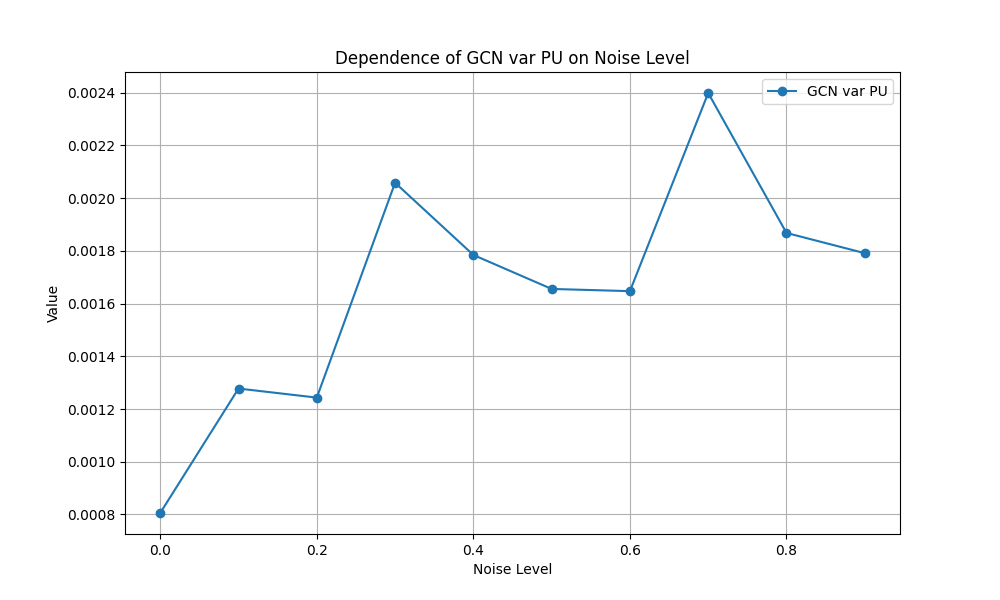
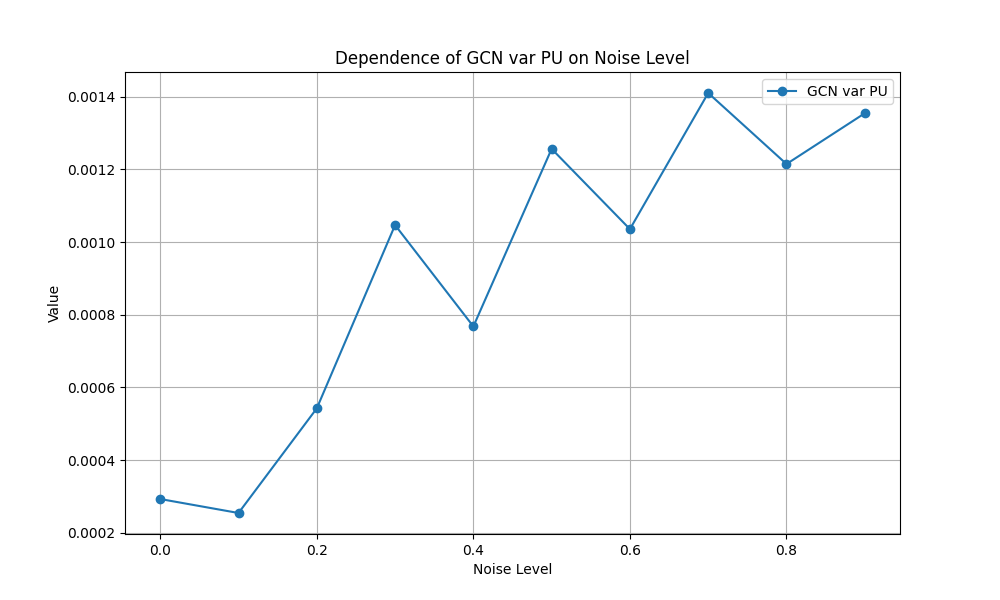
change dataset

diff --git a/deepseak.py b/deepseak.py
@@ -309,7 +309,7 @@ def get_data(dataset_str):
 
 
 noisy_methods = [feature_noise]
-datasets = ['cora']
+datasets = ['citeseer']
 # Experiment 1
 layers = ["GCN", "GAT", "SAGE"]
 for dataset_name in datasets:
@@ -324,7 +324,7 @@ for dataset_name in datasets:
                 print(layer)
                 pu_arr = []
                 acc_arr = []
-                for _ in range(10):
+                for _ in range(5):
                     data = method(pred_data, sigma)
                     model = GCN(num_features, num_classes, layer_name=layer)
                     model.to(device)
@@ -358,10 +358,10 @@ for dataset_name in datasets:
                 one_result[f"{layer} var acc"] = acc_arr.var().item()
             print(one_result)
             results.append(one_result)
-        plot_dir = f"results/{dataset_name}/{method.__name__}/plots"
-        os.makedirs(plot_dir, exist_ok=True)
-        table_file = f"results/{dataset_name}/{method.__name__}/table_experiment1.txt"
+        # plot_dir = f"results/{dataset_name}/{method.__name__}/plots"
+        # os.makedirs(plot_dir, exist_ok=True)
+        table_file = f"results/{dataset_name}/{method.__name__}/table_experiment2.txt"
+        os.makedirs(f"results/{dataset_name}/{method.__name__}", exist_ok=True)
 
-        plot_all_results(results, save_path=plot_dir)
+        # plot_all_results(results, save_path=plot_dir)
         save_table(results, filename=table_file)
-        calculate_metrics_spread(results, False)
